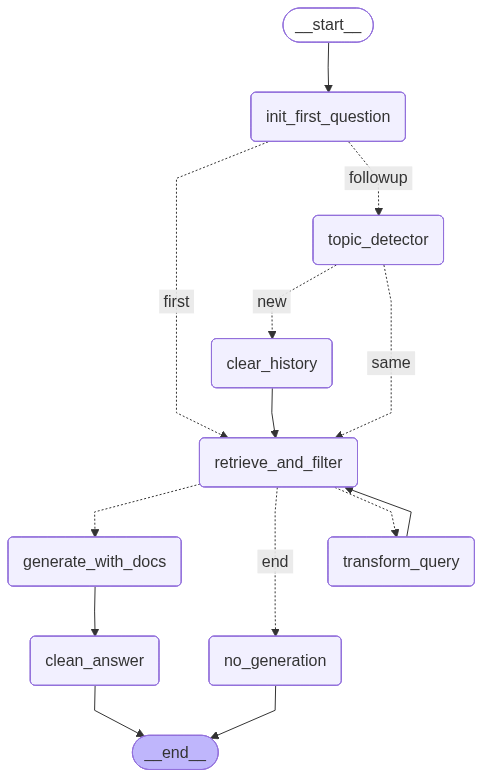
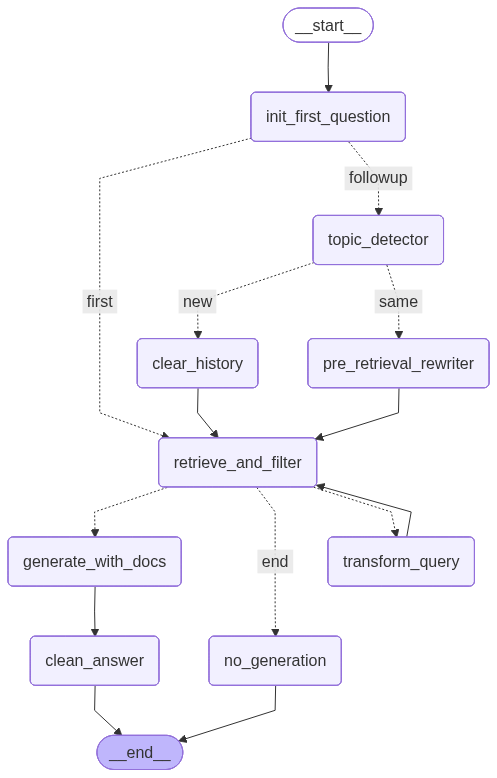
new hybrid search for tables

diff --git a/src/retriever.py b/src/retriever.py
@@ -1,7 +1,11 @@
-from langchain_classic.retrievers import ContextualCompressionRetriever
+import re
+
 from langchain_classic.retrievers.document_compressors import CrossEncoderReranker
 from langchain_community.cross_encoders.base import BaseCrossEncoder
 from langchain_community.vectorstores import FAISS
+from langchain_core.callbacks.manager import CallbackManagerForRetrieverRun
+from langchain_core.documents import Document
+from langchain_core.retrievers import BaseRetriever
 from langchain_core.vectorstores.base import VectorStoreRetriever
 from sentence_transformers import CrossEncoder
 
@@ -9,6 +13,9 @@ from src._load_env import DEVICE
 from src.loggers import Logger
 
 logger = Logger.get_logger(__name__)
+
+
+_TABLE_RE = re.compile(r"\btable\s+(\d+)\b", flags=re.IGNORECASE)
 
 
 # ------------------------
@@ -48,6 +55,124 @@ class ScoredCrossEncoderReranker(CrossEncoderReranker):
 # ------------------------
 # Retriever
 # ------------------------
+class FilterableRerankerRetriever(BaseRetriever):
+    """
+    A retriever that wraps FAISS + cross-encoder reranker and supports
+    an optional metadata filter dict passed at invoke time.
+    """
+
+    vs: FAISS
+    k: int
+    compressor: ScoredCrossEncoderReranker
+    search_type: str = "similarity"
+    fetch_k: int = 80
+    lambda_mult: float = 0.3
+
+    class Config:
+        arbitrary_types_allowed = True
+
+    def _matches_filter(self, metadata, source_filter: dict | None) -> bool:
+        if not source_filter:
+            return True
+
+        for key, value in source_filter.items():
+            actual = metadata.get(key, "")
+
+            if isinstance(value, dict):
+                if "$ne" in value and actual == value["$ne"]:
+                    return False
+            else:
+                if actual != value:
+                    return False
+
+        return True
+
+    def _build_faiss_filter(self, source_filter: dict):
+        return lambda metadata: self._matches_filter(metadata, source_filter)
+
+    def _extract_table_ref(self, query: str) -> str | None:
+        m = _TABLE_RE.search(query)
+        if not m:
+            return None
+        return f"table {m.group(1)}".lower()
+
+    def _find_table_docs(self, query: str, source_filter: dict | None) -> list[Document]:
+        table_ref = self._extract_table_ref(query)
+        if not table_ref or not source_filter:
+            return []
+
+        store = getattr(self.vs.docstore, "_dict", {})
+        matches = []
+
+        for doc in store.values():
+            md = doc.metadata or {}
+
+            if not self._matches_filter(md, source_filter):
+                continue
+
+            if md.get("type") != "table":
+                continue
+
+            section = str(md.get("section", "")).lower()
+            content = str(doc.page_content).lower()
+
+            if table_ref in section or table_ref in content:
+                matches.append(doc)
+
+        return matches
+
+    def _get_relevant_documents(
+        self,
+        query: str,
+        *,
+        run_manager: CallbackManagerForRetrieverRun = None,
+        **kwargs,
+    ) -> list[Document]:
+        source_filter = kwargs.get("filter")
+
+        logger.debug(
+            f"[Retriever] query={query!r} search_type={self.search_type} "
+            f"k={self.k} fetch_k={self.fetch_k} source_filter={source_filter}"
+        )
+
+        # 1) Deterministic branch for explicit "Table N" queries inside a known corpus
+        table_docs = self._find_table_docs(query, source_filter)
+        logger.debug(f"[Retriever] deterministic table lookup found {len(table_docs)} docs")
+
+        if table_docs:
+            reranked = self.compressor.compress_documents(table_docs, query)
+            logger.debug(f"[Retriever] Reranker returned {len(reranked)} docs from table lookup")
+            return reranked
+
+        # 2) Fallback to normal FAISS retrieval
+        search_kwargs = {"k": self.k}
+
+        if source_filter:
+            needs_callable = any(isinstance(v, dict) for v in source_filter.values())
+            search_kwargs["filter"] = self._build_faiss_filter(source_filter) if needs_callable else source_filter
+            search_kwargs["fetch_k"] = max(self.fetch_k, self.k)
+
+        logger.debug(f"[Retriever] FAISS fallback search_kwargs={search_kwargs}")
+
+        if self.search_type == "mmr":
+            search_kwargs.update(
+                {
+                    "fetch_k": self.fetch_k,
+                    "lambda_mult": self.lambda_mult,
+                }
+            )
+            docs = self.vs.max_marginal_relevance_search(query, **search_kwargs)
+        else:
+            docs = self.vs.similarity_search(query, **search_kwargs)
+
+        logger.debug(f"[Retriever] FAISS returned {len(docs)} docs before reranking")
+
+        reranked = self.compressor.compress_documents(docs, query)
+
+        logger.debug(f"[Retriever] Reranker returned {len(reranked)} docs")
+        return reranked
+
+
 def build_retriever(
     vs: FAISS,
     k: int,
@@ -58,9 +183,22 @@ def build_retriever(
     search_type: str = "similarity",
     fetch_k: int | None = None,
     lambda_mult: float = 0.3,
-) -> ContextualCompressionRetriever | VectorStoreRetriever:
+) -> FilterableRerankerRetriever | VectorStoreRetriever:
+    if rerank_model:
+        cross_encoder = MPSSentenceCrossEncoder(rerank_model)
+        compressor = ScoredCrossEncoderReranker(model=cross_encoder, top_n=k_reranked, score_key=score_key)
+        return FilterableRerankerRetriever(
+            vs=vs,
+            k=k,
+            compressor=compressor,
+            search_type=search_type,
+            fetch_k=fetch_k or max(4 * k, 80),
+            lambda_mult=lambda_mult,
+        )
+
+    # Fallback: no reranker, plain FAISS retriever
     if search_type == "mmr":
-        base_retriever = vs.as_retriever(
+        return vs.as_retriever(
             search_type="mmr",
             search_kwargs={
                 "k": k,
@@ -68,13 +206,4 @@ def build_retriever(
                 "lambda_mult": lambda_mult,
             },
         )
-    else:
-        base_retriever = vs.as_retriever(search_kwargs={"k": k})
-
-    if rerank_model:
-        cross_encoder = MPSSentenceCrossEncoder(rerank_model)
-        compressor = ScoredCrossEncoderReranker(model=cross_encoder, top_n=k_reranked, score_key=score_key)
-        retriever = ContextualCompressionRetriever(base_compressor=compressor, base_retriever=base_retriever)
-        return retriever
-
-    return retriever if rerank_model else base_retriever
+    return vs.as_retriever(search_kwargs={"k": k})

diff --git a/src/graph.py b/src/graph.py
@@ -7,10 +7,9 @@ from langgraph.checkpoint.memory import InMemorySaver
 from langgraph.graph import END, START, StateGraph
 
 from src._load_env import cfg
-from src.bilingual_question import BilingualQuestion
 from src.loggers import Logger
 from src.state import GraphState
-from src.utils import print_sources, render_context
+from src.utils import extract_source_filter, print_sources, render_context
 
 logger = Logger.get_logger(__name__)
 
@@ -114,9 +113,10 @@ def retrieve_and_filter(state, retriever):
     question = state["question"]
     rewrite_count = state.get("rewrite_count", 0)
 
-    # Retrieve from both languages if needed
-    q = BilingualQuestion(question)
-    docs_en = retriever.invoke(q.en)
+    source_filter = extract_source_filter(question) if rewrite_count == 0 else None
+    logger.debug(f"Source filter: {source_filter}")
+
+    docs_en = retriever.invoke(question, filter=source_filter)
 
     relevant_docs = [d for d in docs_en if float(d.metadata.get("rerank_score", 0)) > cfg.threshold]
 

diff --git a/src/_load_env.py b/src/_load_env.py
@@ -1,12 +1,15 @@
+import logging
 import os
 import socket
-import warnings
 from pathlib import Path
 
 import numpy as np
 import torch
 import yaml
 from rich.console import Console
+
+logging.getLogger("transformers.pipelines.base").setLevel(logging.ERROR)
+# logging.getLogger("transformers").setLevel(logging.ERROR)
 
 # Patch numpy.array for fasttext NumPy 2.x compatibility
 _original_array = np.array
@@ -20,15 +23,6 @@ def patched_array(*args, **kwargs):
 
 
 np.array = patched_array
-
-
-warnings.filterwarnings(
-    "ignore",
-    message=(
-        r"You seem to be using the pipelines sequentially on GPU\."
-        r" In order to maximize efficiency please use a dataset"
-    ),
-)
 
 
 def is_online_fast() -> bool:

diff --git a/src/utils.py b/src/utils.py
@@ -14,6 +14,20 @@ logger = Logger.get_logger(__name__)
 PATIENT_DOC = "Informazioni_per_pazienti.md"
 
 
+_CORPUS_FILTERS = {
+    "information for patients": {"source": PATIENT_DOC},
+    "colonoscopy literature": {"source": {"$ne": PATIENT_DOC}},
+}
+
+
+def extract_source_filter(question: str) -> dict | None:
+    q_lower = question.lower()
+    for label, filt in _CORPUS_FILTERS.items():
+        if label in q_lower:
+            return filt
+    return None
+
+
 def print_sources(docs: list[Document]) -> str:
     """
     Create a formatted table of source documents and return it as plain text.
